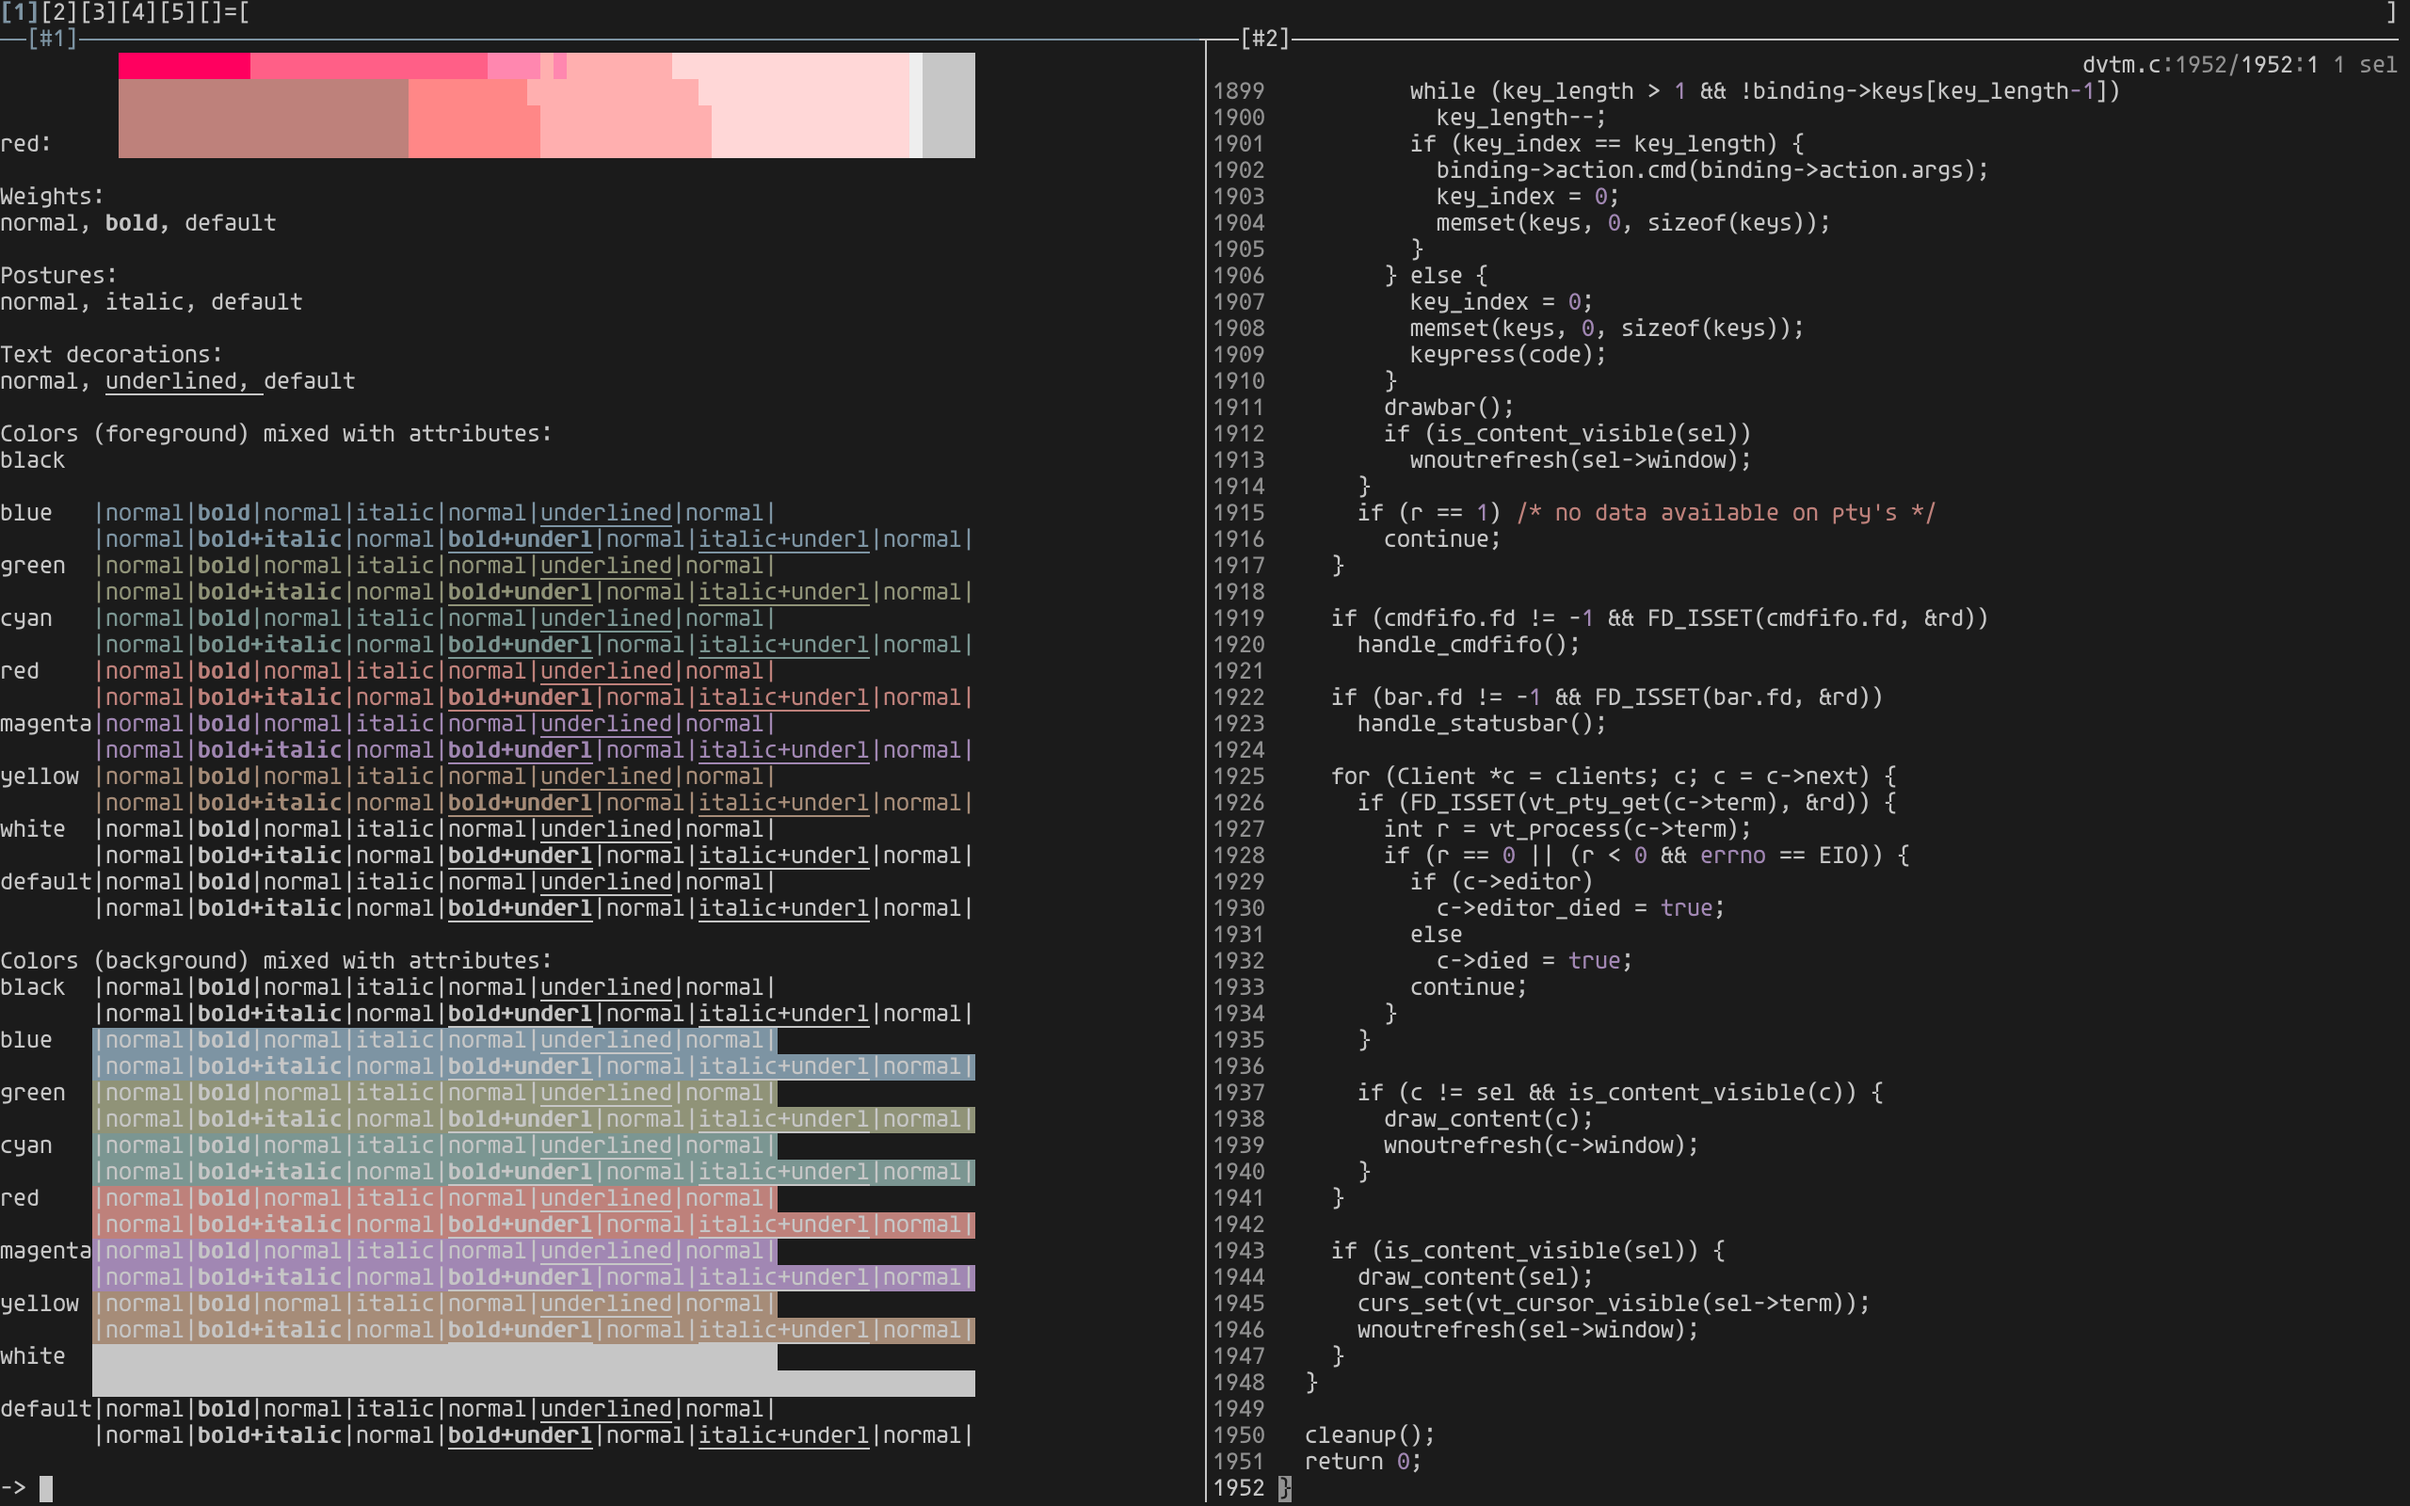
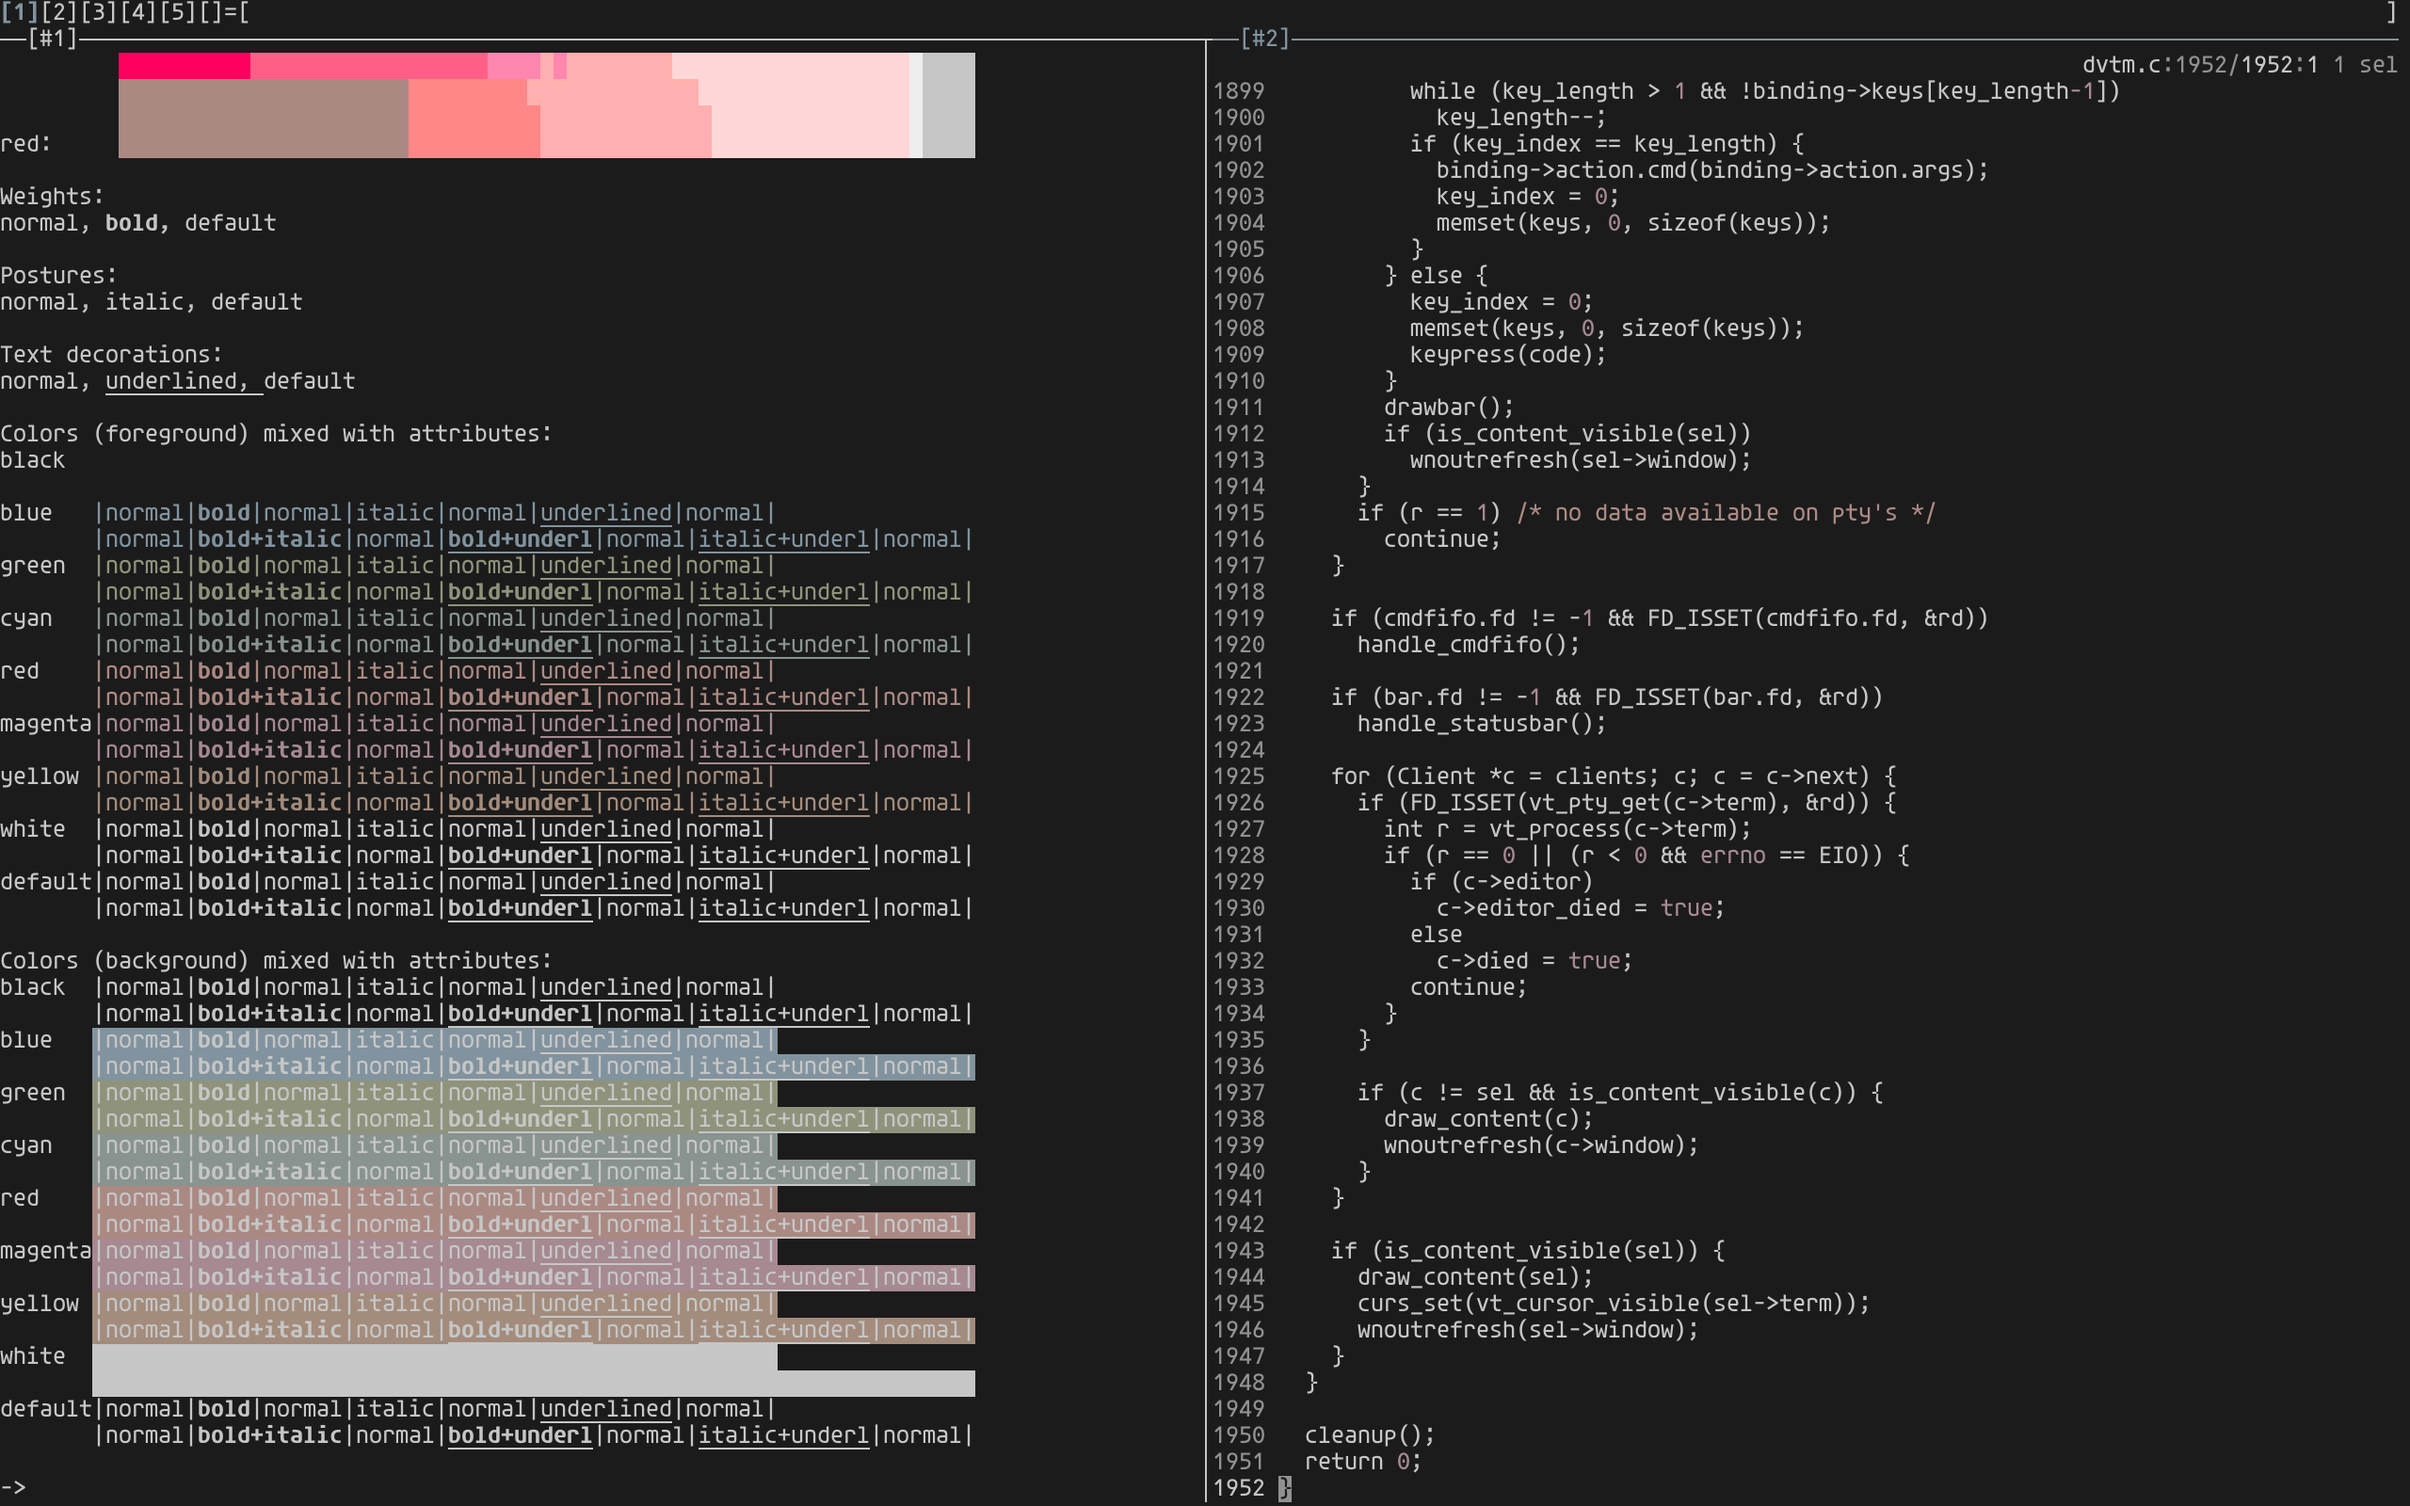
Use L*a*b*

Changed region(s): [[0.0312, 0.8125, 0.4062, 0.875], [0.0312, 0.4688, 0.3125, 0.5]]

diff --git a/README.md b/README.md
@@ -7,35 +7,36 @@ Light and dark colorscheme for use with terminals. Inspired by
 
 ## colors
 
-Colors were chosen using the [HSLuv](https://www.hsluv.org) color space.
+Colors were chosen using the
+[L*a*b*](https://en.wikipedia.org/wiki/CIELAB_color_space) color space.
 
 ### dark
 
-| name    | image                    | hex      | H     | S    | L     |
-|---------|--------------------------|----------|-------|------|-------|
-| black   | ![black](./pub/d0.png)   | `1b1b1b` |   0.0 |  0.0 |  10.0 |
-| red     | ![red](./pub/d1.png)     | `be817b` |  18.0 | 30.0 |  60.0 |
-| green   | ![green](./pub/d2.png)   | `909378` |  90.0 | 30.0 |  60.0 |
-| yellow  | ![yellow](./pub/d3.png)  | `a68c78` |  45.0 | 30.0 |  60.0 |
-| blue    | ![blue](./pub/d4.png)    | `7d94a3` | 230.0 | 30.0 |  60.0 |
-| magenta | ![magenta](./pub/d5.png) | `a187b3` | 290.0 | 30.0 |  60.0 |
-| cyan    | ![cyan](./pub/d6.png)    | `7b9692` | 180.0 | 30.0 |  60.0 |
-| white   | ![white](./pub/d7.png)   | `c6c6c6` |   0.0 |  0.0 |  80.0 |
-| grey    | ![grey](./pub/d8.png)    | `919191` |   0.0 |  0.0 |  60.0 |
+| name    | image                    | hex      | L*  | a* | b* |
+|---------|--------------------------|----------|-----|----|----|
+| black   | ![black](./pub/d0.png)   | `1b1b1b` |  10 |  0 |  0 |
+| red     | ![red](./pub/d1.png)     | `ab8983` |  60 | 12 |  8 |
+| green   | ![green](./pub/d2.png)   | `8f937b` |  60 | -6 | 12 |
+| yellow  | ![yellow](./pub/d3.png)  | `a38c7c` |  60 |  6 | 12 |
+| blue    | ![blue](./pub/d4.png)    | `81939e` |  60 | -4 | -8 |
+| magenta | ![magenta](./pub/d5.png) | `a68991` |  60 | 12 |  0 |
+| cyan    | ![cyan](./pub/d6.png)    | `899390` |  60 | -4 |  0 |
+| white   | ![white](./pub/d7.png)   | `c6c6c6` |  80 |  0 |  0 |
+| grey    | ![grey](./pub/d8.png)    | `919191` |  60 |  0 |  0 |
 
 ### light
 
-| name    | image                    | hex      | H     | S    | L     |
-|---------|--------------------------|----------|-------|------|-------|
-| black   | ![black](./pub/l0.png)   | `303030` |   0.0 |  0.0 |  20.0 |
-| red     | ![red](./pub/l1.png)     | `8f5e58` |  18.0 | 30.0 |  45.0 |
-| green   | ![green](./pub/l2.png)   | `6a6c58` |  90.0 | 30.0 |  45.0 |
-| yellow  | ![yellow](./pub/l3.png)  | `7b6758` |  45.0 | 30.0 |  45.0 |
-| blue    | ![blue](./pub/l4.png)    | `5c6d78` | 230.0 | 30.0 |  45.0 |
-| magenta | ![magenta](./pub/l5.png) | `7c608e` | 290.0 | 30.0 |  45.0 |
-| cyan    | ![cyan](./pub/l6.png)    | `5a6f6c` | 180.0 | 30.0 |  45.0 |
-| white   | ![white](./pub/l7.png)   | `ffffff` |   0.0 |  0.0 | 100.0 |
-| grey    | ![grey](./pub/l8.png)    | `6a6a6a` |   0.0 |  0.0 |  45.0 |
+| name    | image                    | hex      | L*  | a* | b* |
+|---------|--------------------------|----------|-----|----|----|
+| black   | ![black](./pub/l0.png)   | `303030` |  20 |  0 |  0 |
+| red     | ![red](./pub/l1.png)     | `83635e` |  45 | 12 |  8 |
+| green   | ![green](./pub/l2.png)   | `686d56` |  45 | -6 | 12 |
+| yellow  | ![yellow](./pub/l3.png)  | `7c6657` |  45 |  6 | 12 |
+| blue    | ![blue](./pub/l4.png)    | `5c6d78` |  45 | -4 | -8 |
+| magenta | ![magenta](./pub/l5.png) | `7e646b` |  45 | 12 |  0 |
+| cyan    | ![cyan](./pub/l6.png)    | `636c6a` |  45 | -4 |  0 |
+| white   | ![white](./pub/l7.png)   | `ffffff` | 100 |  0 |  0 |
+| grey    | ![grey](./pub/l8.png)    | `6a6a6a` |  45 |  0 |  0 |
 
 ## screenshots
 
